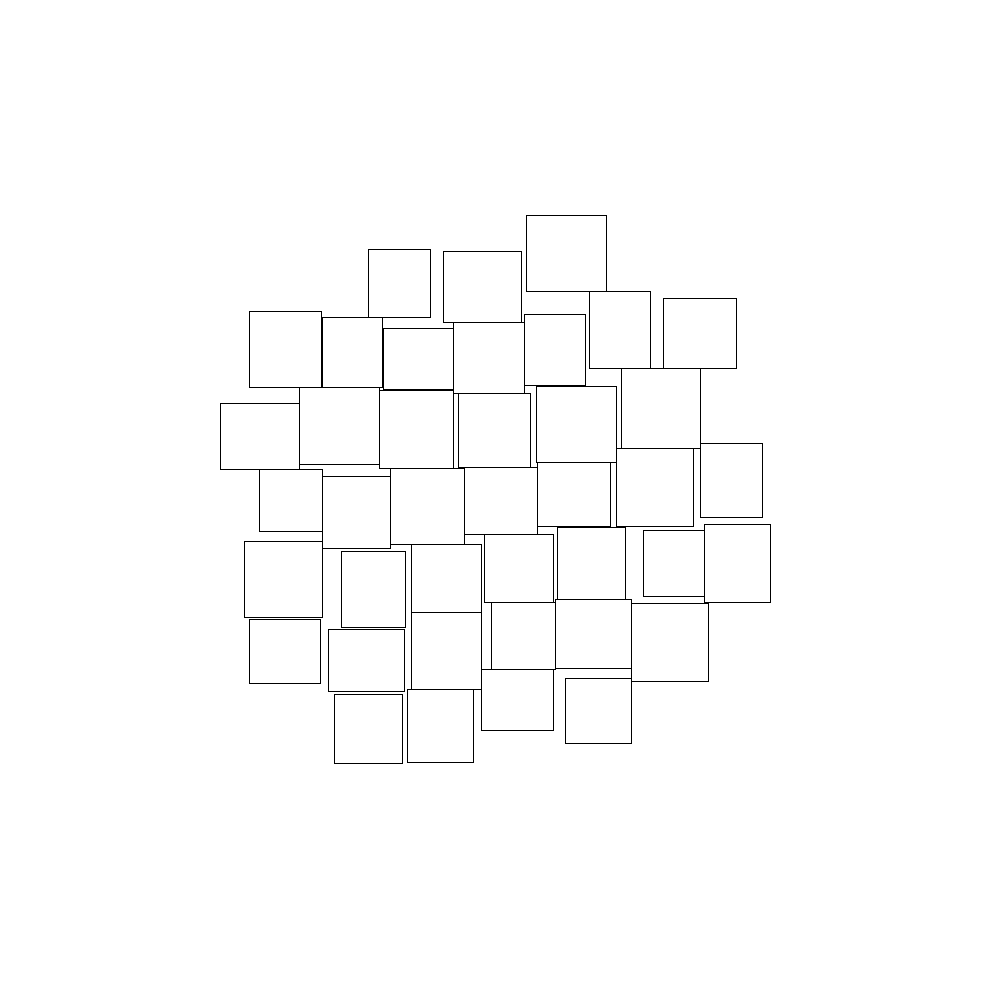
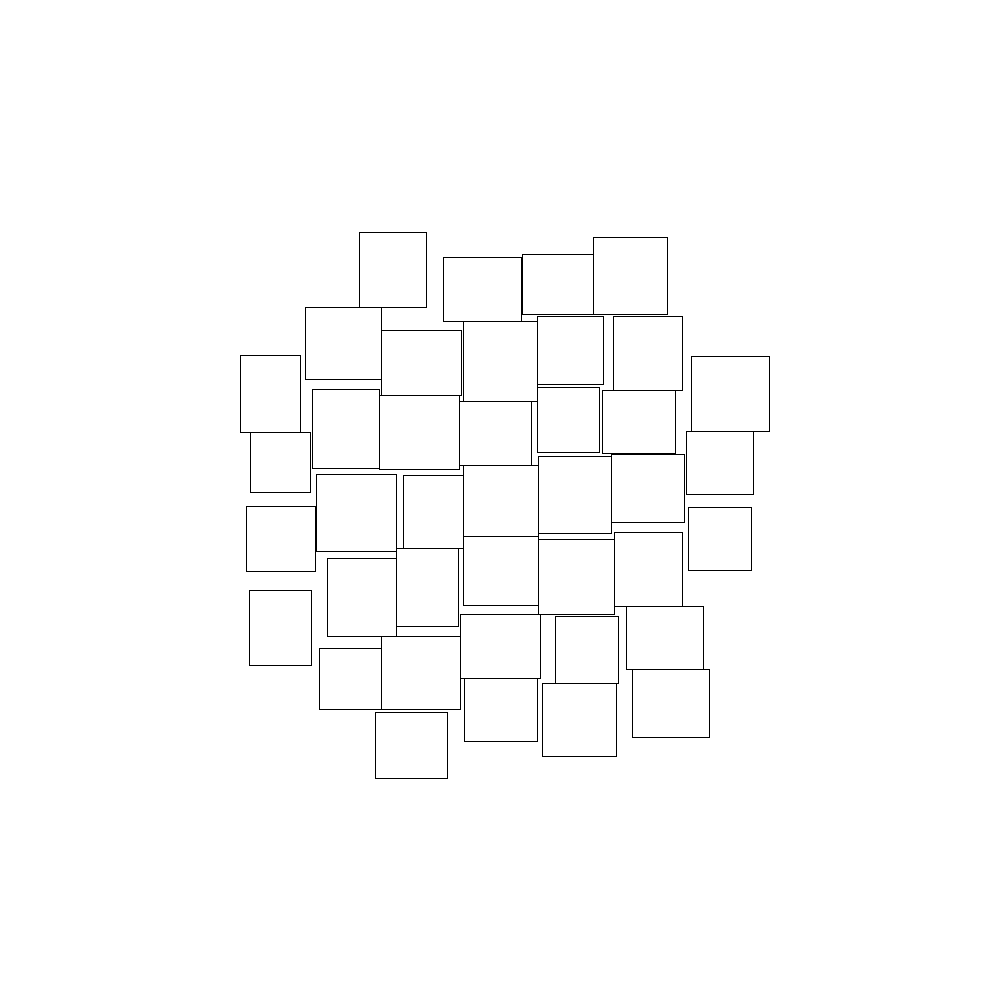
Добавил возможность использовать состояние, для созд. изображения

diff --git a/cs/TagsCloudVisualization/Program.cs b/cs/TagsCloudVisualization/Program.cs
@@ -1,0 +1,54 @@
+using System.Drawing;
+using TagsCloudVisualization.CloudClasses;
+using TagsCloudVisualization.CloudClasses.Interfaces;
+
+namespace TagsCloudVisualization.Visualisation
+{
+    internal class Program
+    {
+        private static void Main(string[] args)
+        {
+            using var tagCloudGenerator = new TagCloudImageGenerator(new Visualiser(Color.Black, 1));
+
+            var center = new Point(500, 500);
+            var bitmapSize = new Size(1000, 1000);
+
+            var firstSizes = GenerateRectangleSizes(40, 60, 80, 60, 80);
+            var secondSizes = GenerateRectangleSizes(100, 10, 40, 20, 30);
+            var thirdSizes = GenerateRectangleSizes(30, 80, 130, 80, 130);
+
+            var firstLayouter = SetupCloudLayout(center, firstSizes);
+            var secondLayouter = SetupCloudLayout(center, secondSizes);
+            var thirdLayouter = SetupCloudLayout(center, thirdSizes);
+
+            using var bitmap1 = tagCloudGenerator.CreateNewBitmap(bitmapSize, firstLayouter.Rectangles);
+            using var bitmap2 = tagCloudGenerator.CreateNewBitmap(bitmapSize, secondLayouter.Rectangles);
+            using var bitmap3 = tagCloudGenerator.CreateNewBitmap(bitmapSize, thirdLayouter.Rectangles);
+
+            BitmapSaver.SaveToCorrect(bitmap1, "bitmap_1.png");
+            BitmapSaver.SaveToCorrect(bitmap2, "bitmap_2.png");
+            BitmapSaver.SaveToCorrect(bitmap3, "bitmap_3.png");
+        }
+
+        private static IEnumerable<Size> GenerateRectangleSizes(int count, int minWidth, int maxWidth, int minHeight, int maxHeight)
+        {
+            var sizeBuilder = SizeBuilder.Configure()
+                .SetCount(count)
+                .SetWidth(minWidth, maxWidth)
+                .SetHeight(minHeight, maxHeight)
+                .Generate();
+
+            return sizeBuilder;
+        }
+
+        private static CircularCloudLayouter SetupCloudLayout(Point center, IEnumerable<Size> sizes)
+        {
+            var layouter = new CircularCloudLayouter(new SpiralRayMover(center));
+
+            sizes.ToList()
+                .ForEach(size => layouter.PutNextRectangle(size));
+
+            return layouter;
+        }
+    }
+}

diff --git a/cs/TagsCloudVisualization/Visualisation/TagCloudImageGenerator.cs b/cs/TagsCloudVisualization/Visualisation/TagCloudImageGenerator.cs
@@ -1,5 +1,6 @@
 using System.Drawing;
 using TagsCloudVisualization.CloudClasses;
+using TagsCloudVisualization.CloudClasses.Interfaces;
 
 namespace TagsCloudVisualization.Visualisation
 {
@@ -14,7 +15,7 @@ namespace TagsCloudVisualization.Visualisation
             Visualiser = visualiser;
         }
 
-        public Bitmap CreateNewBitmap(Size bitmapSize, CircularCloudLayouter layouter,
+        public Bitmap CreateNewBitmap(Size bitmapSize, ICloudLayouter layouter,
             Func<IEnumerable<Size>> configurationFunc)
         {
             var newBitmap = new Bitmap(bitmapSize.Width, bitmapSize.Height);
@@ -27,12 +28,32 @@ namespace TagsCloudVisualization.Visualisation
             return newBitmap;
         }
 
-        public void AddToCurrentImage(Bitmap bitmap, CircularCloudLayouter layouter,
+        public Bitmap CreateNewBitmap(Size bitmapSize, List<Rectangle> rectangles)
+        {
+            var newBitmap = new Bitmap(bitmapSize.Width, bitmapSize.Height);
+
+            foreach (var rectangle in rectangles)
+            {
+                Visualiser.DrawRectangle(newBitmap, rectangle);
+            }
+
+            return newBitmap;
+        }
+
+        public void AddToCurrentImage(Bitmap bitmap, ICloudLayouter layouter,
             Func<IEnumerable<Size>> configurationFunc)
         {
             foreach (var size in configurationFunc())
             {
                 Visualiser.DrawRectangle(bitmap, layouter.PutNextRectangle(size));
+            }
+        }
+
+        public void AddToCurrentImage(Bitmap bitmap, List<Rectangle> rectangles)
+        {
+            foreach (var rectangle in rectangles)
+            {
+                Visualiser.DrawRectangle(bitmap, rectangle);
             }
         }
 
